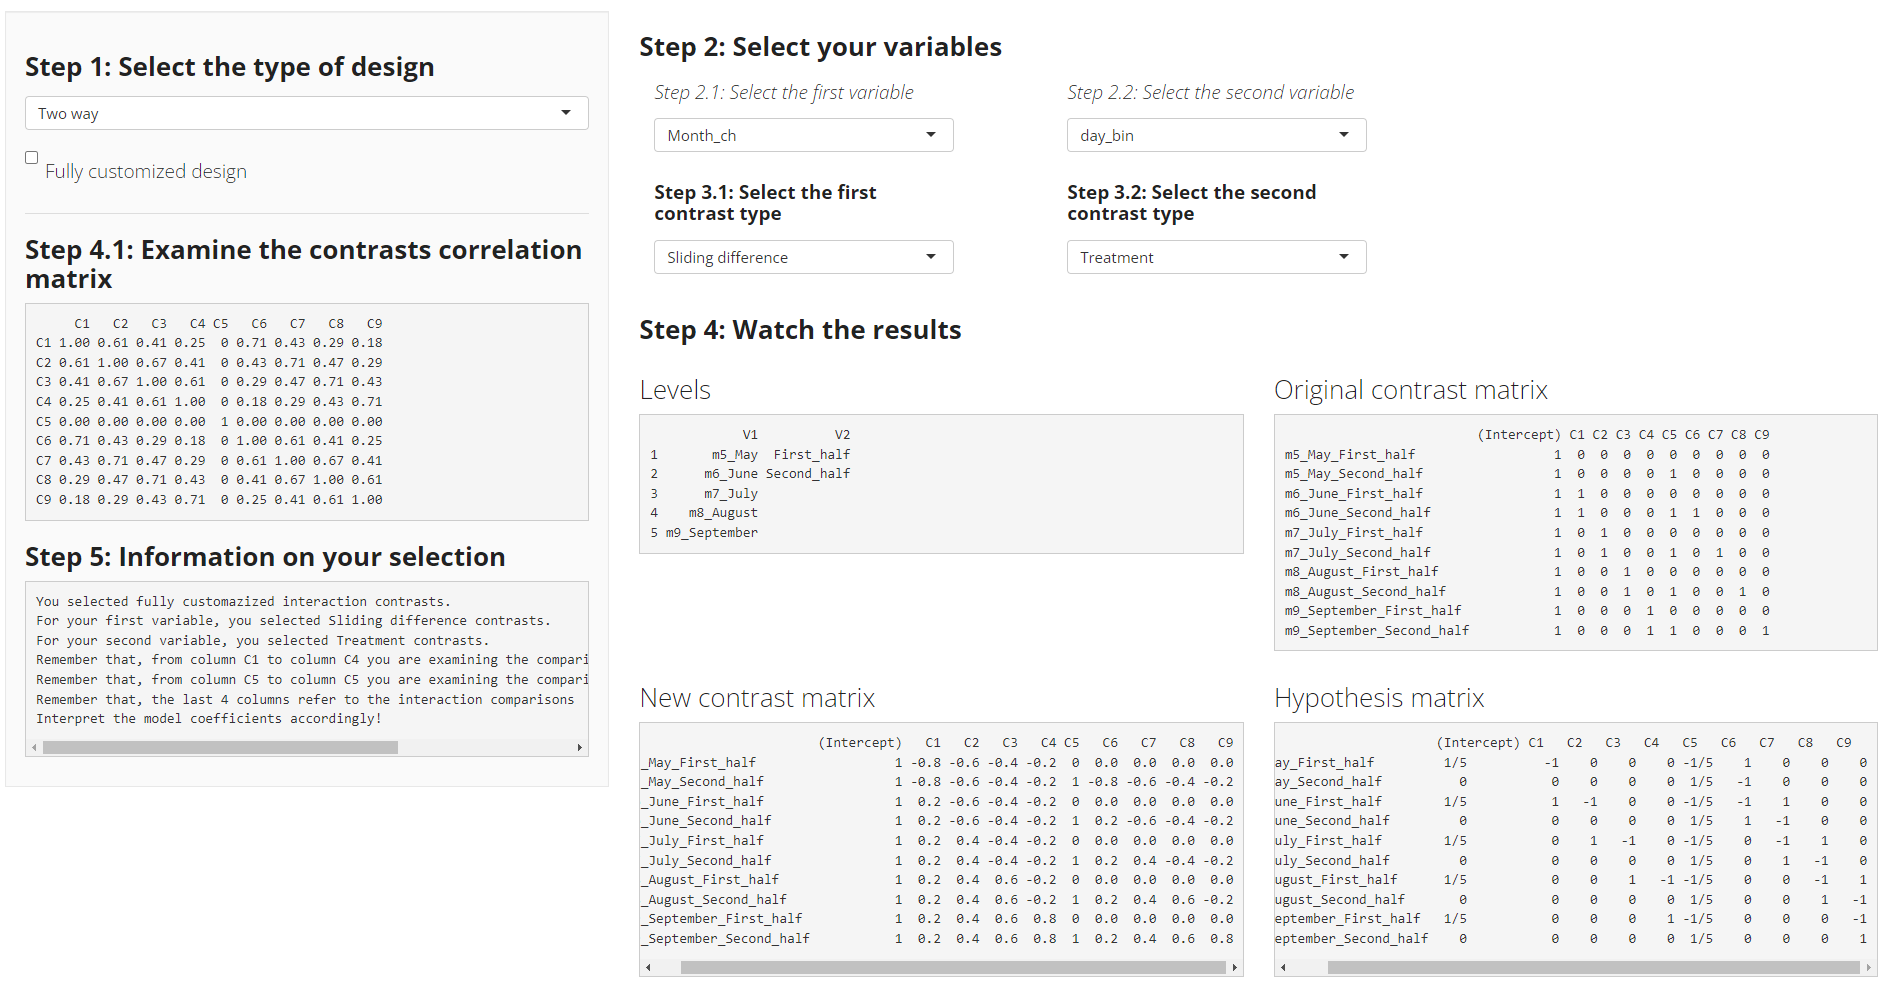
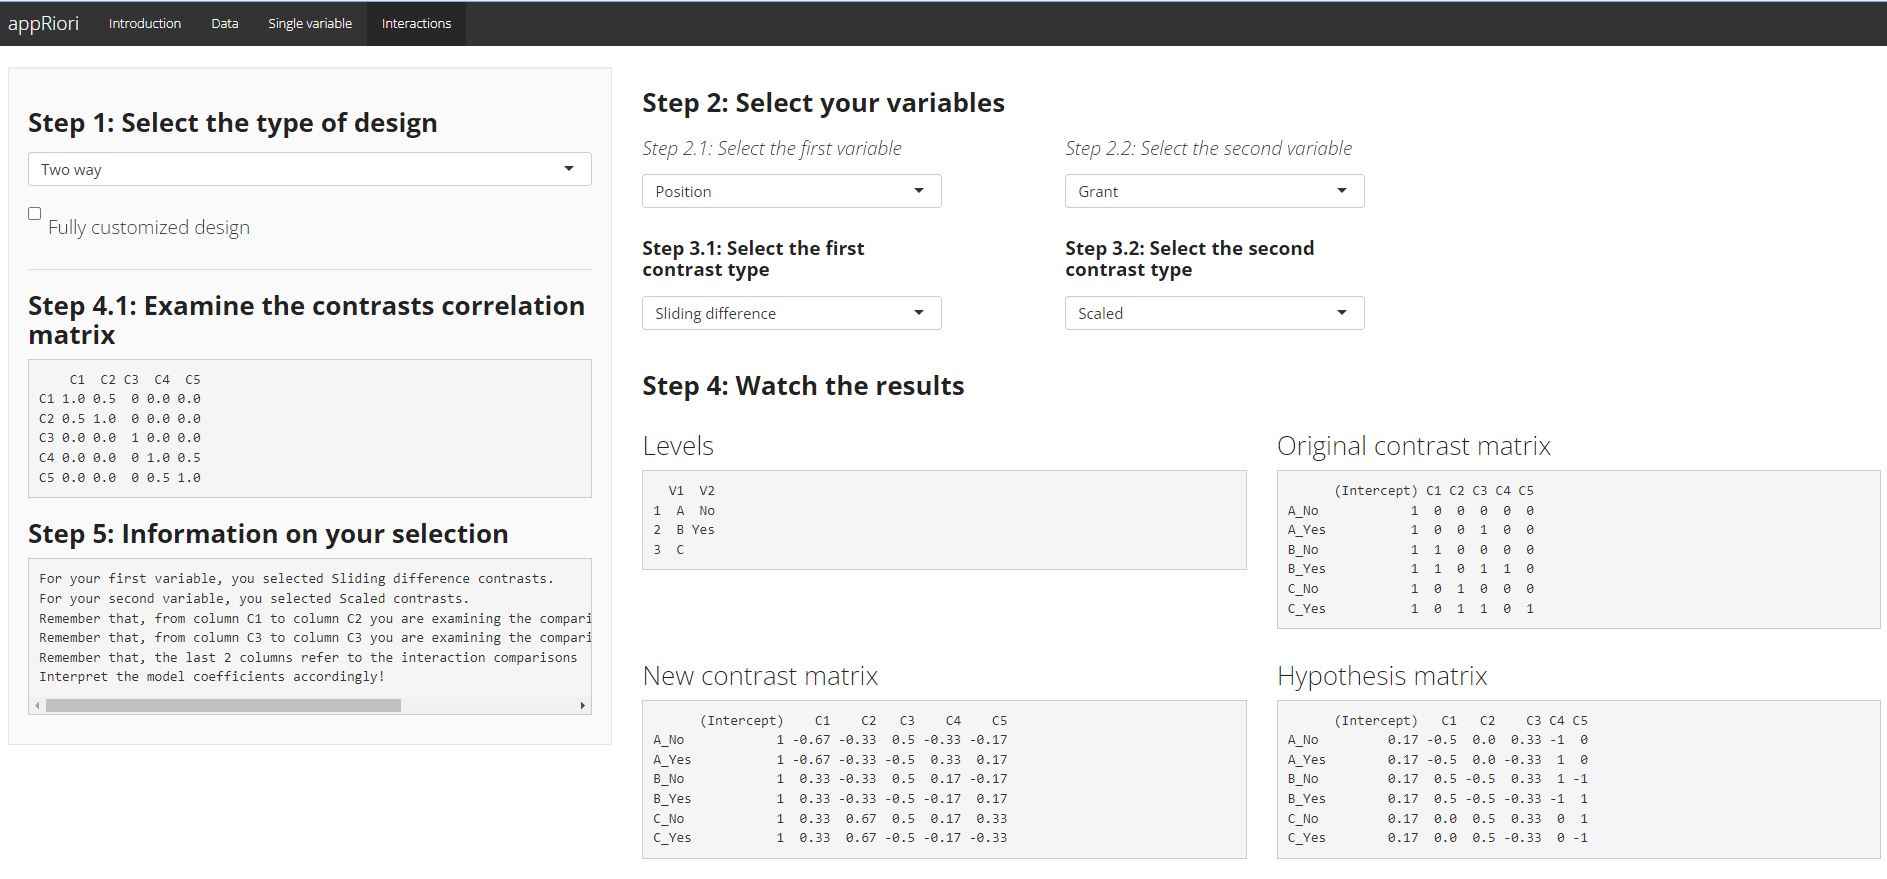
Updates 05th September 2023

diff --git a/inst/tutorial/ex2.md b/inst/tutorial/ex2.md
@@ -1,41 +1,56 @@
 # An example with a two-way interaction
 
-For this example, we will use the database `airquality`. This database,
-contains data referring to daily air quality measurements in New York,
-from May to September 1973. (see `?airquality` for further information).
+For this example, we will use the `stress` database. It is contained in
+the `appRiori` package. This database, contains data referring to the
+level of stress perceived from 102 academics. NB: This data are
+fictional. (see `?stress` for further information).
 
 In our example we will consider the following variables:
 
--   **Temp**, a numerical variable referring to Temperature in
-    Fahrenheit.
--   **Month**, a numerical variable ranging from 1 to 12, where 1
-    encodes January and 12 encodes December.
--   **Day**, a numerical variable encoding the days of each month.
+-   **Stress**, a numerical variable referring to the level of stress
+    perceived at the moment of the assessment. It represents a score
+    ranging from 0 (no stress) to 100 (maximum level of stress).
+-   **Position**, a categorical variable with three levels, referring
+    to (A) PhD student, (B) Full-Time Researchers and (C) Professors
+    (Associate or Full).
+-   **Grant**, a categorical variable describing if the individual is
+    applying for a grant (YES), or not (NO).
 
-Suppose now that a researcher is interested in understanding if, in a
-time not afflicted by climate change, the temperature would change
-according to the following hypotheses:
+Suppose now that a researcher is interested in understanding if the
+level of stress would change according to the following hypotheses:
 
-1.  The mean temperature (in F), of May should be lower than the mean
-    temperature of June. Similarly, the mean temperature, of June should
-    be lower than the mean temperature of July. No differences should be
-    observed between the mean temperature of July and August. Finally,
-    The mean temperature of August should be higher than the mean
-    temperature of September.
+1.  The average level of stress of PhD students should be lower than the
+    average level of stress of FT-Researchers. Finally, average level of
+    stress of FT-Researchers should be lower than average level of
+    stress of Professors.
 2.  This set of comparisons should be better detected considering the
-    temperature change that occurs between the first half (that should
-    be warmer) of the Month and the second half.
+    fact an individual is applying for a grant or not.
 
 Let’s see how to set these planned contrasts with appRiori!
 
-For practical purposes, let’s create a categorical variable that splits
-each month into two parts. Moreover, let’s create another variable
-explicitly stating the name of the month. Then, we can download the data
-frame in order to use it inside appRiori.
+**Step 1**: After upolading the data and selected the “Interactions”
+Panel, we should select `Two way` from the first menu.
 
-    airquality$day_bin=ifelse(airquality$Day<16,"First_half","Second_half")
-    airquality$Month_ch=c(rep("m5_May",31),rep("m6_June",30),rep("m7_July",31),rep("m8_August",31),rep("m9_September",30))
-    write.table(airquality,"airquality.csv",sep = ";",dec = ".",row.names = F,col.names = T)
+**Step 2**: We select the **Position** as the first variable and
+**Grant** as second.
+
+**Step 3**: Then we select the appropriate contrasts for each variable.
+**Sliding difference** for the first variable and **Scaled** for the
+second (see the **Type of contrasts** section for further explanation of
+how such contrasts work).
+
+**Step 4**: At that point, we ca see the default, new and hypotheses
+matrices related to our comparisons. Inside the New contrast matrix, we
+can see that the column 1,2 encodes the contrasts for the first main
+effect (i.e., Position). Columns 3 encodes the contrasts for the second
+main effect (i.e., Grant). The last two columns encode the contrasts for
+interaction.
+
+**Step 4.1**: We can check the correlations among our contrasts.
+
+**Step 5**: A final look at what we selected (just to be sure).
+
+**Step 6**: Let’s obtain our Basic R code.
 
 The following picture displays how to set and obtain the code
 corresponding to this example:
@@ -44,140 +59,86 @@ corresponding to this example:
 <img src="www/example_2_p1.png" alt="drawing" width="1200"/>
 </center>
 
-**Step 1**: After upolading the data and selected the “Interactions”
-Panel, we should select `Two way` from the first menu.
-
-**Step 2**: We select the **Month** as the first variable and
-**day\_bin** as second.
-
-**Step 3**: Then we select the appropriate contrasts for each variable.
-**Sliding difference** for the first variable and **scaled** for the
-second (see the **Type of contrasts** section for further explanation of
-how such contrasts work).
-
-**Step 4**: At that point, we ca see the default, new and hypotheses
-matrices related to our comparisons. Inside the New contrast matrix, we
-can see that the column 1,2,3,4 encodes the contrasts for the first main
-effect (i.e., Month). Columns 5 encodes the contrasts for the second
-main effect (i.e., day\_bin). The last four columns encode the contrasts
-for interaction.
-
-**Step 4.1**: We can check the correlations among our contrasts.
-
-**Step 5**: A final look at what we selected (just to be sure).
-
-**Step 6**: Let’s obtain our code.
-
 **The end**: Once we have the code, we can test the hypotheses through a
-linear regression (for practical purposes, let’s assume the response
-variable called `Temp` as normally distributed).
+linear regression.
 
-    airquality$Month_ch=factor(airquality$Month_ch)
-    airquality$day_bin=factor(airquality$day_bin)
-    contrasts(airquality$Month_ch)=MASS::contr.sdif(5)
-    contrasts(airquality$day_bin)=contr.sum(2)/2
-    ########### with hypr package
-    # h_Month_ch<- hypr()
-    # cmat(h_Month_ch)<-MASS::contr.sdif(5)
-    # contrasts(airquality$Month_ch)=cmat(h_Month_ch)
-    # h_day_bin<- hypr()
-    # cmat(h_day_bin)<-contr.sum(2)/2
-    # contrasts(airquality$day_bin)=cmat(h_day_bin)
+    Stress$Position=factor(Stress$Position)
+    Stress$Grant=factor(Stress$Grant)
+    contrasts(Stress$Position)=MASS::contr.sdif(3)
+    contrasts(Stress$Grant)=contr.sum(2)/2
 
-    summary(lm(Temp~Month_ch*day_bin,data=airquality))
+    summary(lm(Stress~Position*Grant,data=Stress))
 
     ## 
     ## Call:
-    ## lm(formula = Temp ~ Month_ch * day_bin, data = airquality)
+    ## lm(formula = Stress ~ Position * Grant, data = Stress)
     ## 
     ## Residuals:
-    ##      Min       1Q   Median       3Q      Max 
-    ## -15.6000  -4.0667  -0.4667   3.6667  15.6250 
+    ##     Min      1Q  Median      3Q     Max 
+    ## -9.0929 -2.2796 -0.1859  2.6179  7.7371 
     ## 
     ## Coefficients:
-    ##                      Estimate Std. Error t value Pr(>|t|)    
-    ## (Intercept)          77.89583    0.50233 155.069  < 2e-16 ***
-    ## Month_ch2-1          13.54583    1.59103   8.514 2.10e-14 ***
-    ## Month_ch3-2           4.82292    1.59103   3.031 0.002891 ** 
-    ## Month_ch4-3           0.07917    1.57835   0.050 0.960067    
-    ## Month_ch5-4          -7.10208    1.59103  -4.464 1.62e-05 ***
-    ## day_bin1              3.96833    1.00466   3.950 0.000122 ***
-    ## Month_ch2-1:day_bin1  6.64167    3.18206   2.087 0.038643 *  
-    ## Month_ch3-2:day_bin1 -5.77917    3.18206  -1.816 0.071439 .  
-    ## Month_ch4-3:day_bin1  0.90833    3.15671   0.288 0.773957    
-    ## Month_ch5-4:day_bin1  7.00417    3.18206   2.201 0.029329 *  
+    ##                    Estimate Std. Error t value Pr(>|t|)    
+    ## (Intercept)         79.8214     0.3673 217.329   <2e-16 ***
+    ## Position2-1         -1.3309     0.8997  -1.479   0.1423    
+    ## Position3-2          1.5241     0.8997   1.694   0.0935 .  
+    ## Grant1              -0.9067     0.7346  -1.234   0.2201    
+    ## Position2-1:Grant1  -0.3971     1.7993  -0.221   0.8258    
+    ## Position3-2:Grant1   0.9400     1.7993   0.522   0.6026    
     ## ---
     ## Signif. codes:  0 '***' 0.001 '**' 0.01 '*' 0.05 '.' 0.1 ' ' 1
     ## 
-    ## Residual standard error: 6.211 on 143 degrees of freedom
-    ## Multiple R-squared:  0.5949, Adjusted R-squared:  0.5695 
-    ## F-statistic: 23.34 on 9 and 143 DF,  p-value: < 2.2e-16
+    ## Residual standard error: 3.709 on 96 degrees of freedom
+    ## Multiple R-squared:  0.0514, Adjusted R-squared:  0.001992 
+    ## F-statistic:  1.04 on 5 and 96 DF,  p-value: 0.3986
 
 ### Interpretation
 
 What is the summary telling us? Let’s have a look at the Coefficients’
 table:
 
-1.  The row referring to **Month2-1** contains the comparisons between
-    the mean temperature of June compared to the mean temperature of
-    May. Such difference is equal to 13.54 and it is statistically
-    significant (*p* &lt; .001).
+1.  The row referring to **(Intercept)** contains the estimated average
+    values of stress of all the sample. It is quite high!
 
-2.  The row referring to **Month3-2** contains the comparisons between
-    the mean temperature of July compared to the mean temperature of
-    June. Such difference is equal to 4.82 and it is statistically
-    significant (*p* &lt; .01).
+2.  The row referring to **Position2-1** contains the comparisons
+    between the mean stress of Full-Time researchers (i.e., group B)
+    compared to the mean temperature of PhD students (i.e., group A).
+    Such difference is equal to  − 1.33 and it is not statistically
+    significant (*p* = .14).
 
-3.  The row referring to **Month4-3** contains the comparisons between
-    the mean temperature of August compared to the mean temperature of
-    July. Such difference is equal to 0.08 and it is not statistically
-    significant (*p* = .96).
+3.  The row referring to **Position3-2** contains the comparisons
+    between the mean stress of Professors (i.e., group C) compared to
+    the mean stress of Full-Time researchers (i.e., group B). Such
+    difference is equal to 1.52 and it is not statistically significant
+    (*p* = .09).
 
-4.  The row referring to **Month5-4** contains the comparisons between
-    the mean temperature of September compared to the mean temperature
-    of August. Such difference is equal to  − 7.10 and it is
-    statistically significant (*p* &lt; .001).
+4.  The row referring to **Grant** contains the comparisons between the
+    mean stress observed in those who are not applying for a grant
+    compared to those who are applying for a grant. Such difference is
+    equal to  − 0.91 and it is not statistically significant
+    (*p* = .22).
 
-5.  The row referring to **day\_bin1** contains the comparisons between
-    the mean temperature observed in the first half of the month
-    compared to the mean temperature observed in the second half of the
-    month. Such difference is equal to 3.97 and it is statistically
-    significant (*p* &lt; .01).
+5.  Now we can start with the interaction effect. The row referring to
+    **Position2-1:Grant1** contains the comparisons between the mean
+    stress of Full-Time researchers (i.e., group B) compared to the mean
+    temperature of PhD students (i.e., group A), across those who are
+    not applying for a grant compared to those who are applying for a
+    grant. Such a difference is equal to  − 0.40 and it is not
+    statistically significant (*p* = .83).
 
-6.  Now we can start with the interaction effect. The row referring to
-    **Month2-1:day\_bin1** contains the comparisons between the mean
-    temperature of June compared to the mean temperature of May, across
-    the two halves of the month. In other words, the difference of the
-    difference of mean temperatures between the two halves of the month
-    of June and those of May. Such a difference is equal to 6.64 and it
-    is statistically significant (*p* = .04).
+6.  The row referring to **Position3-2:Grant1** contains the comparisons
+    between the mean stress of Professors (i.e., group C) compared to
+    the mean stress of Full-Time researchers (i.e., group B), across
+    those who are not applying for a grant compared to those who are
+    applying for a grant. Such a difference is equal to 0.94 and it is
+    not statistically significant (*p* = .60).
 
-7.  The row referring to **Month3-2:day\_bin1** contains the comparisons
-    between the mean temperature of July compared to the mean
-    temperature of June, across the two halves of the month. In other
-    words, the difference of the difference of mean temperatures between
-    the two halves of the month of July and those of June Such a
-    difference is equal to  − 5.78 and it is not statistically
-    significant (*p* = .07).
+It seems that:
 
-8.  The row referring to **Month4-3:day\_bin1** contains the comparisons
-    between the mean temperature of August compared to the mean
-    temperature of July, across the two halves of the month. In other
-    words, the difference of the difference of mean temperatures between
-    the two halves of the month of August and those of July Such a
-    difference is equal to 0.91 and it is not statistically significant
-    (*p* = .77).
+**If you work in academics, you are stressed.**
 
-9.  The row referring to **Month5-4:day\_bin1** contains the comparisons
-    between the mean temperature of September compared to the mean
-    temperature of August, across the two halves of the month. In other
-    words, the difference of the difference of mean temperatures between
-    the two halves of the month of September and those of August Such a
-    difference is equal to 7 and it is statistically significant
-    (*p* = .03).
-
-It seems that, even in this case, the hypotheses of the researcher are
-corroborated by the data!
+**Regardless of the position you have, or whether you are applying for a
+grant (or not).**
 
 Good job, researcher!
 
